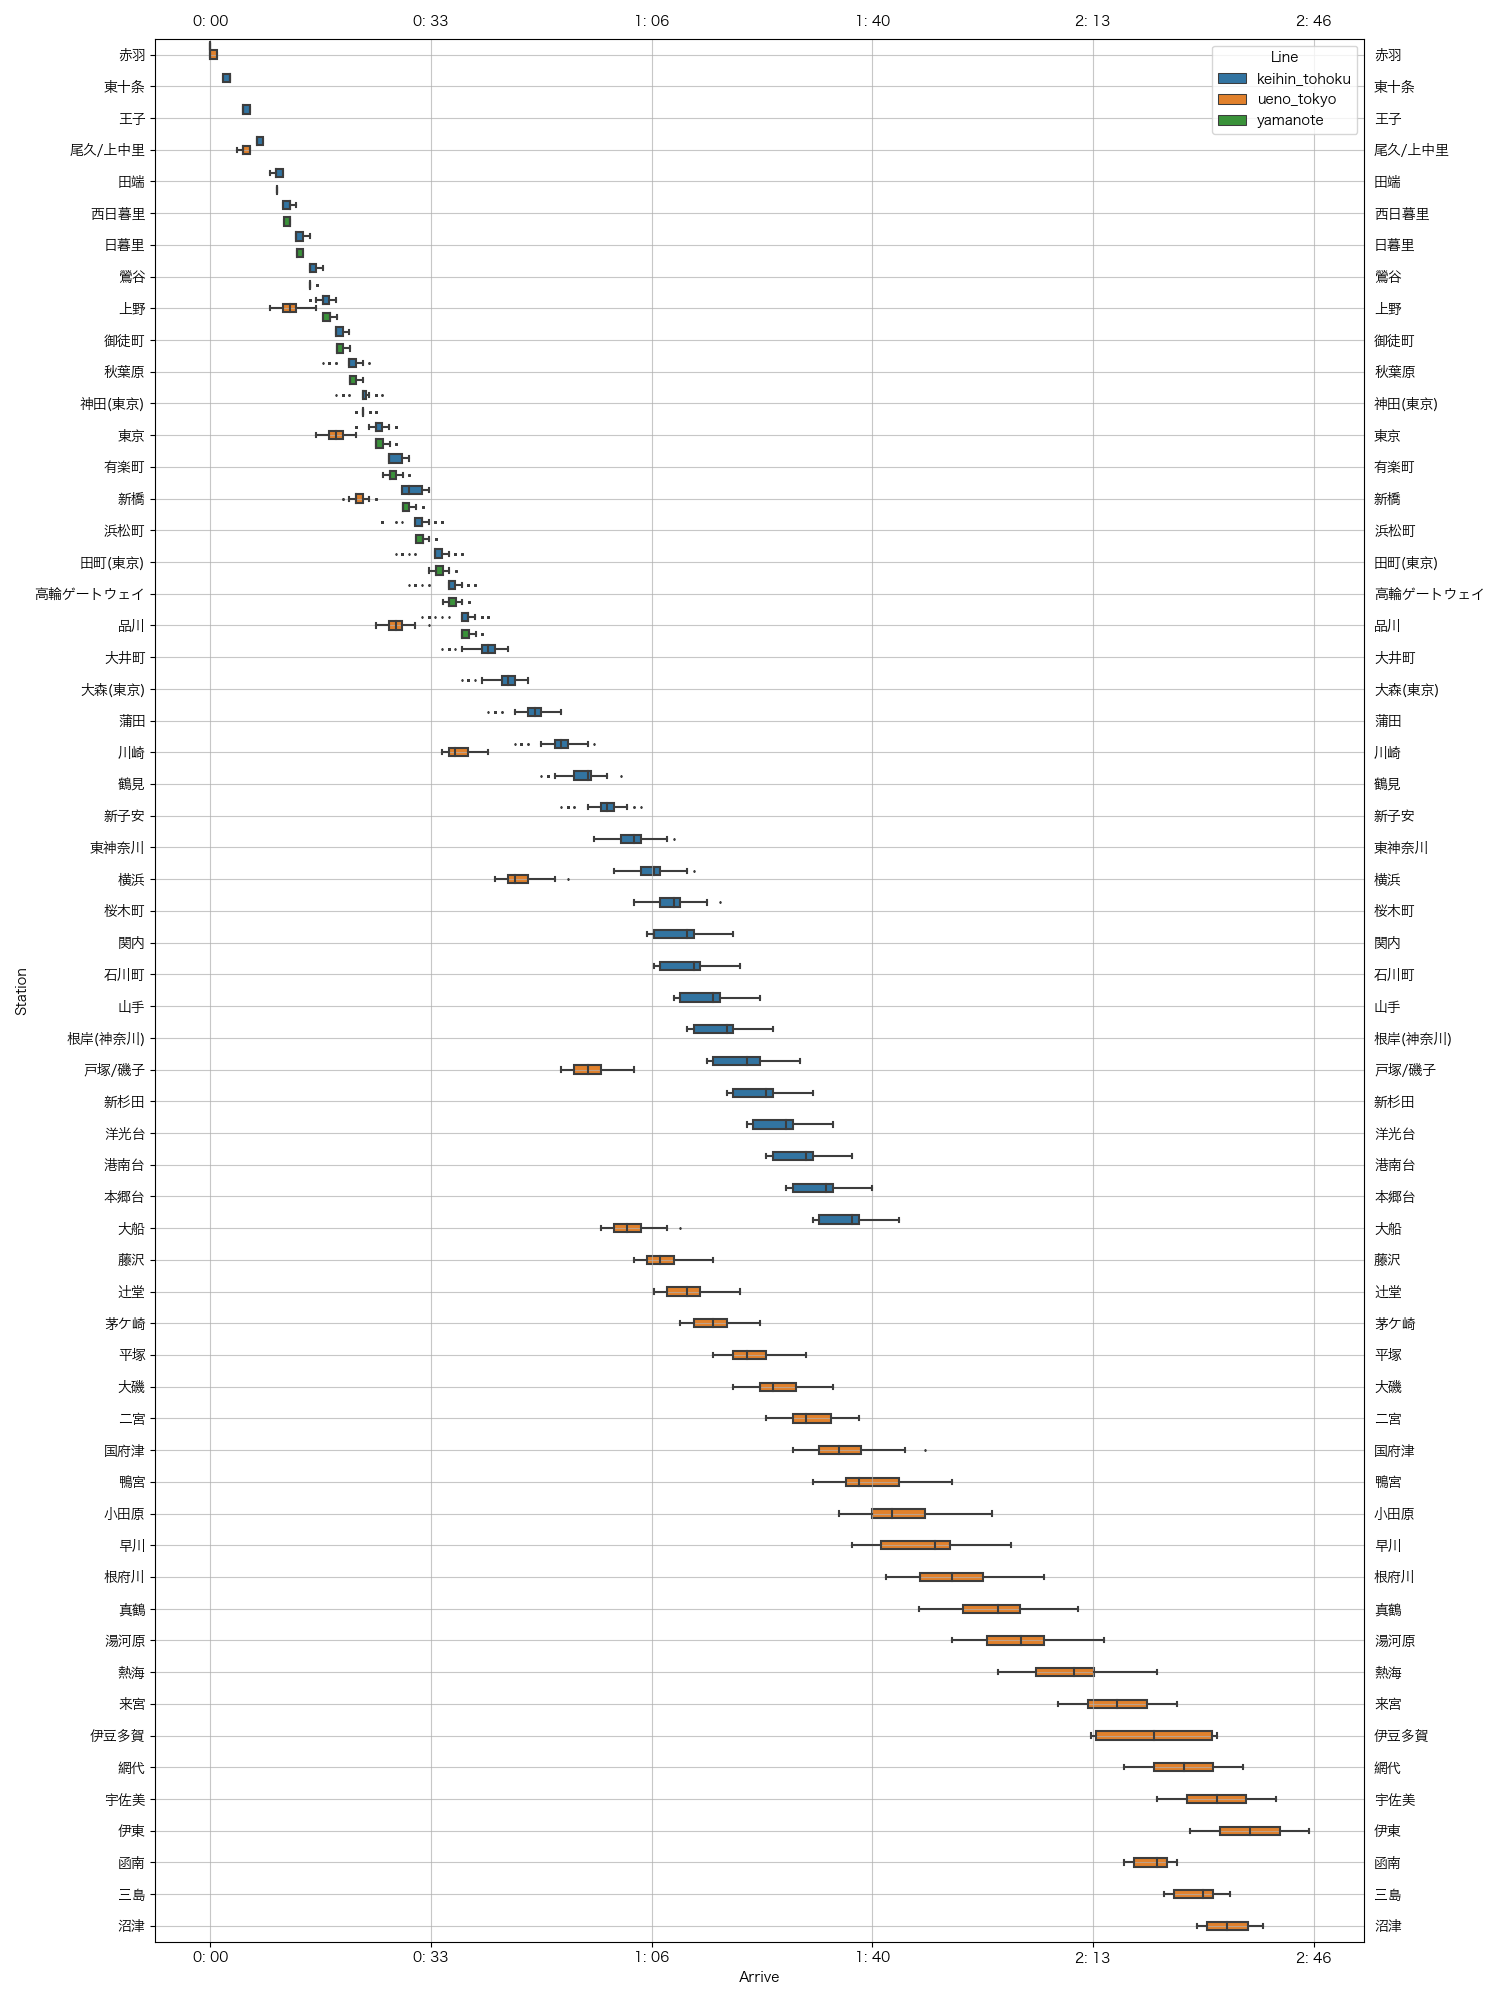
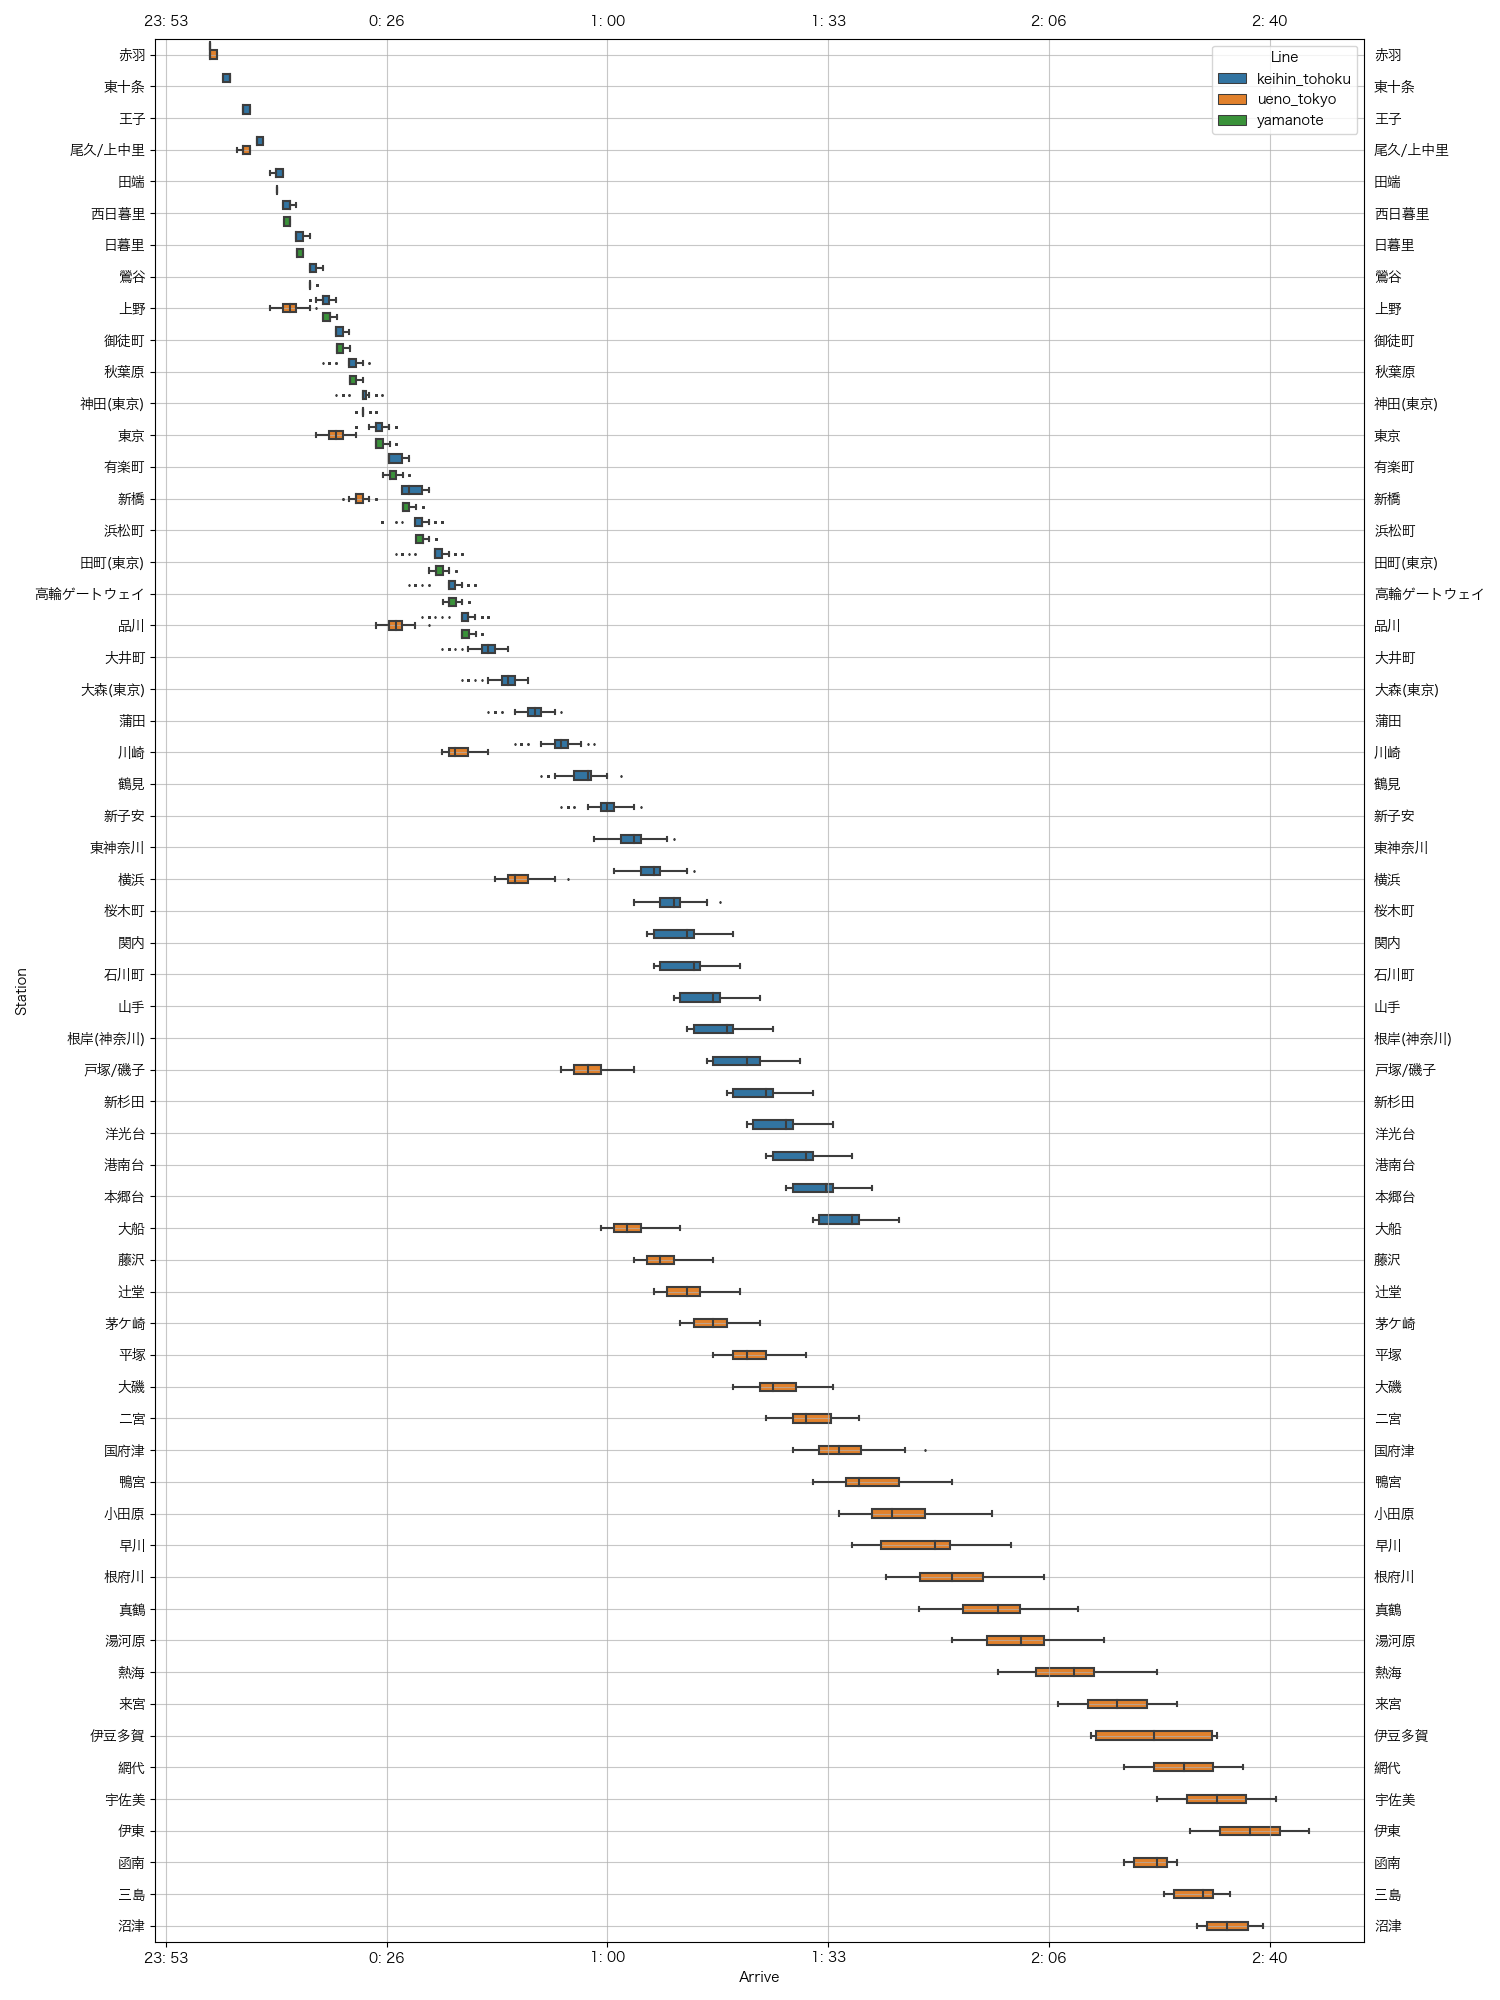
Simplify pandas

diff --git a/prepare_plot.py b/prepare_plot.py
@@ -47,14 +47,10 @@ def fix_next_days(df, col):
     three_am = pd.Timestamp.today().replace(
         hour=3, minute=0, second=0, microsecond=0, nanosecond=0
     )
-    for train in df.Train.unique():
-        xs = df[df.Train == train][col]
-        xs_dropped = xs.dropna()
-        to_change = (midnight_ <= xs_dropped) & (xs_dropped < three_am)
-        new = xs_dropped[to_change].apply(lambda x: x + timedelta(days=1))
-        if new.shape[0] == 0:
-            continue
-        df.loc[new.index[0] : new.index[-1], col] = new
+    xs = df[col]
+    xs_dropped = xs.dropna()
+    to_change = (midnight_ <= xs_dropped) & (xs_dropped < three_am)
+    xs_dropped[to_change] += timedelta(days=1)
 
 def subtract_min(here):
     new = here.Arrive.apply(lambda x: x - here.Arrive.min())
